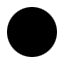
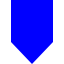
fixing people map

diff --git a/src/routes/people/Map.js b/src/routes/people/Map.js
@@ -20,8 +20,8 @@ class Persons extends React.Component {
     const src = get(person, 'portraits[0].asset.url')
     return `
       <a href="/person/${person._id}">
-        ${src ? `<img src="${src}" />` : ''}
-        <span>${person.name}</span>
+        ${src ? `<img src="${src}?w=300&fit=max" />` : ''}
+        <span clasa="${s.popupTitle}">${person.name}</span>
       </a>
     `
   }
@@ -44,10 +44,9 @@ class Persons extends React.Component {
 
       const majorMarkerIcon = L.icon({
         iconUrl: '/images/map-marker.png',
-        className: s.marker,
-        iconSize: [14, 14], // size of the icon
-        iconAnchor: [7, 7], // point of the icon which will correspond to marker's location
-        popupAnchor: [0, -10], // point from which the popup should open relative to the iconAnchor
+        iconSize: [24, 24], // size of the icon
+        iconAnchor: [12, 24], // point of the icon which will correspond to marker's location
+        popupAnchor: [-12, -18], // point from which the popup should open relative to the iconAnchor
       })
 
       people.forEach(person => {

diff --git a/src/routes/people/Map.css b/src/routes/people/Map.css
@@ -4,19 +4,20 @@
 
 .map {
   width: 100%;
-  height: 100vh;
+  height: calc(100vh - 14rem);
 }
 
-.marker {
-  height: 0;
-  width: 0;
-  border: 10px solid blue;
-  border-radius: 50%;
+.popupTitle {
+  line-height: 2rem;
 }
 
 .map {
   @nest & :global(.leaflet-control-zoom.leaflet-bar) {
     border-color: blue;
+  }
+
+  @nest & :global(.leaflet-popup-tip-container) {
+    display: none;
   }
 
   @nest & :global(.leaflet-control-zoom-in) {
@@ -52,12 +53,19 @@
   }
 
   @nest & :global(.leaflet-popup-close-button) {
-    color: red;
+    font-size: 1.5rem;
+    margin-right: 0.25em;
   }
 
   @nest & :global(.leaflet-popup-content) {
-    padding: 0 1rem;
+    padding: 0 2rem;
     margin: 0;
+    padding-top: 0 !important;
+
+    @nest & span {
+      display: block;
+      line-height: 3em;
+    }
   }
 
   @nest & :global(.leaflet-popup) {
@@ -71,6 +79,7 @@
     }
 
     @nest & img {
+      margin-top: 2rem;
       width: 100%;
       height: auto;
     }
